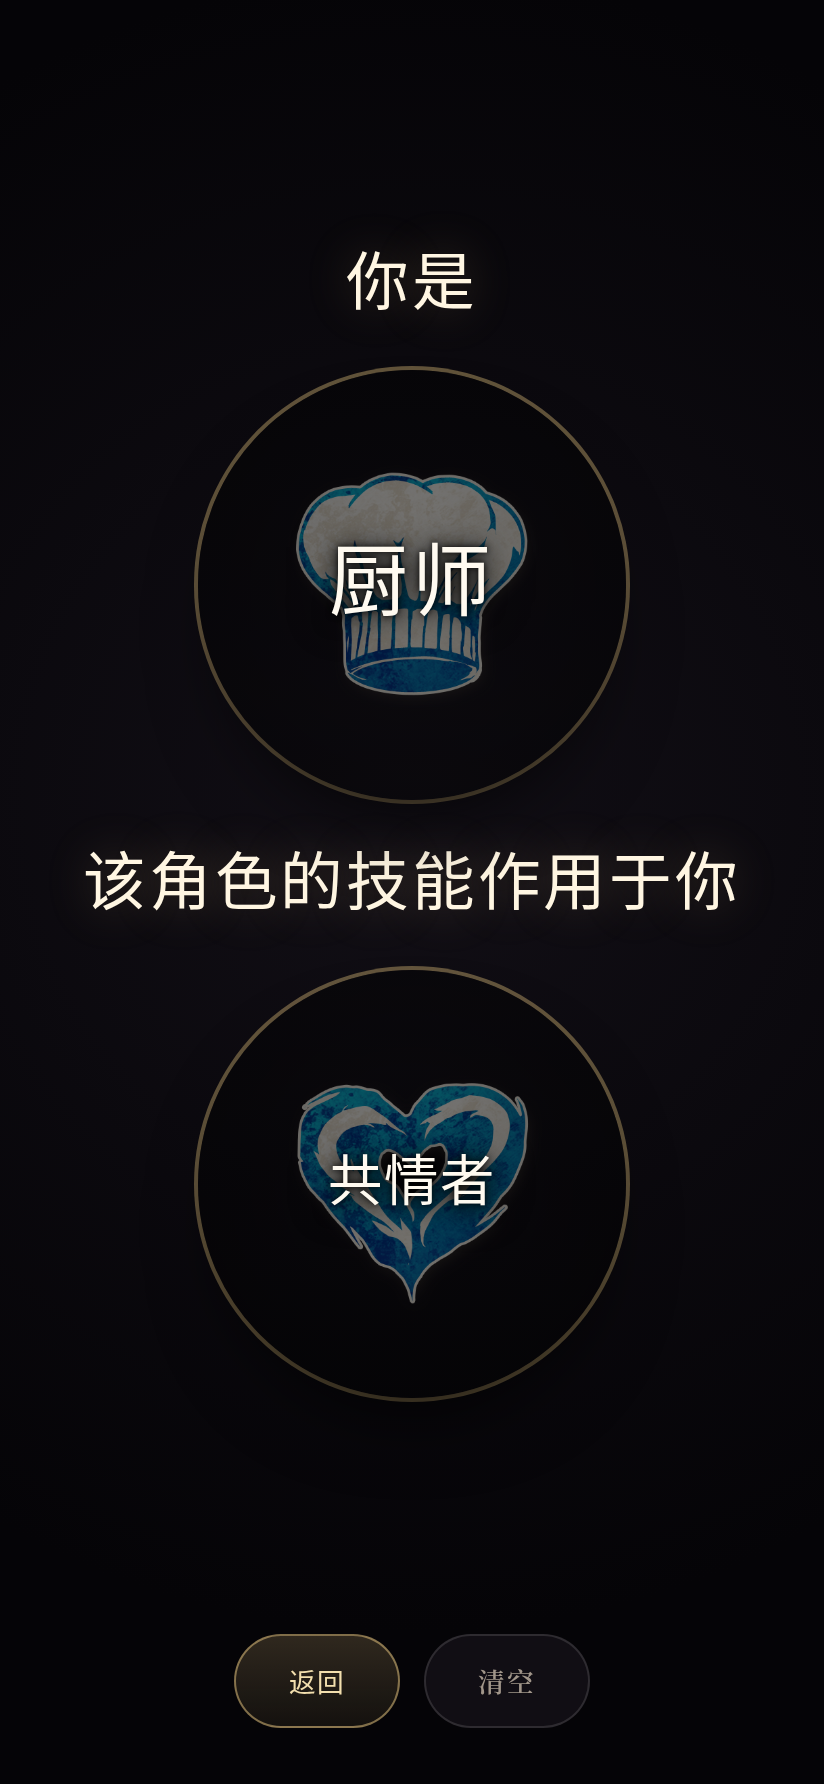
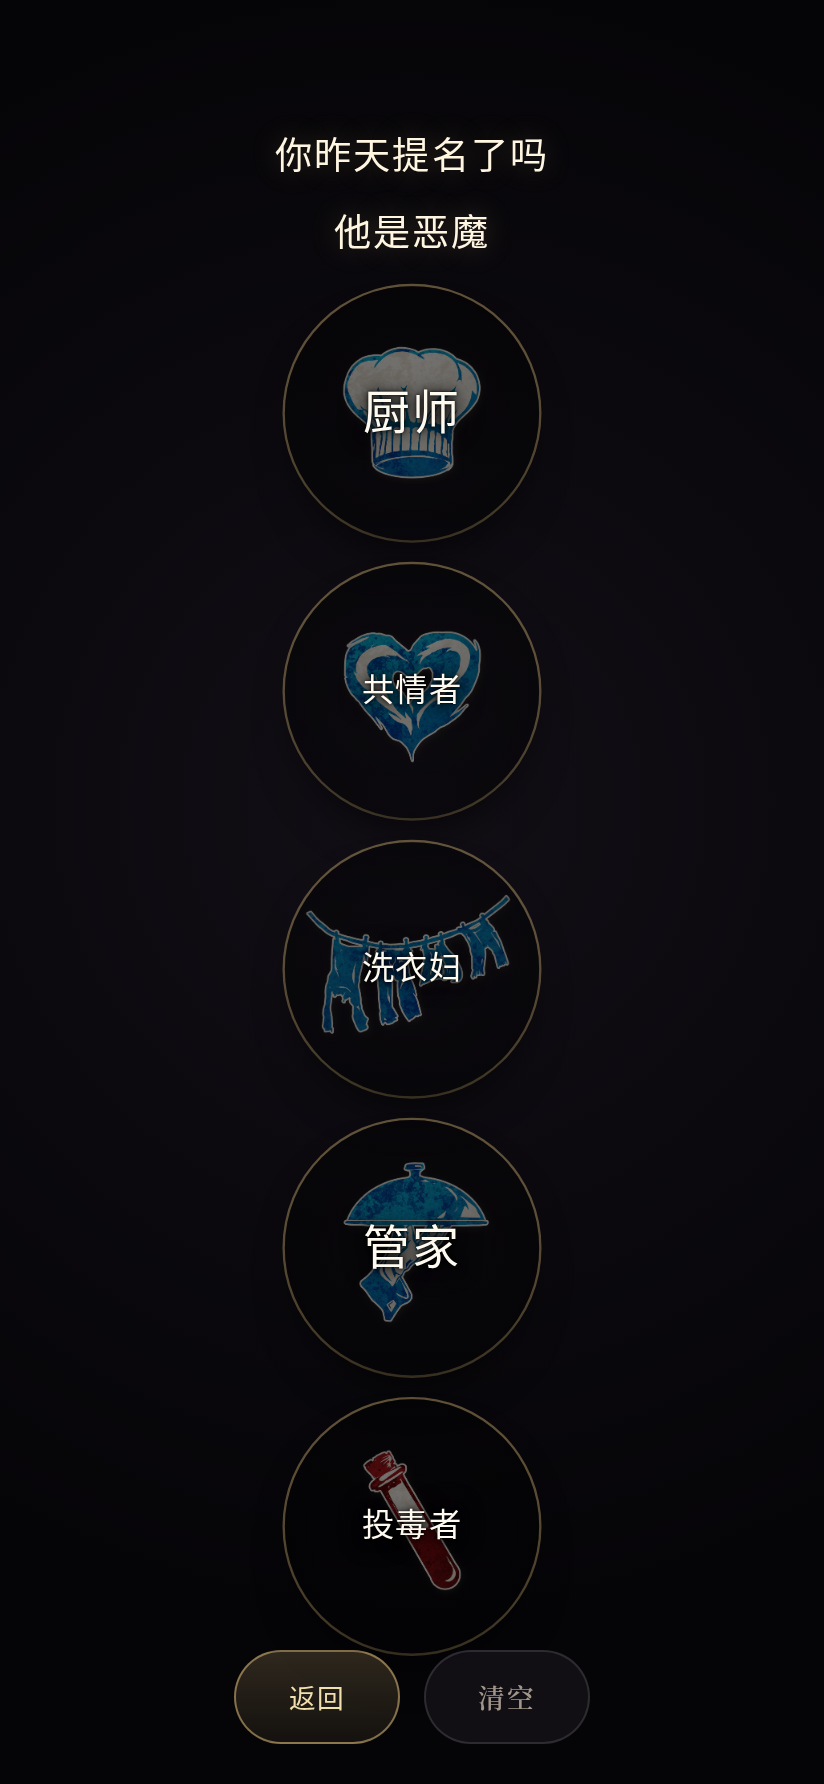
feat(xrh): 展示内容过多时整体等比缩小；角色面板选完不关闭、底部返回；不再自动弹起搜索框

diff --git a/public/js/xrh.js b/public/js/xrh.js
@@ -96,6 +96,7 @@
     $('#btnShow').disabled = empty;
     $('#btnShow').textContent = empty ? '显示' : ('显示（' + queue.length + ' 项）');
     $('#btnClearTop').classList.toggle('on', !empty);
+    updateSheetFoot();
   }
 
   /* ---------- 提示卡 ---------- */
@@ -146,13 +147,18 @@
   }
 
   /* ---------- 角色列表 ---------- */
+  function updateSheetFoot() {
+    var btn = $('#pickDone');
+    if (btn) btn.textContent = queue.length ? ('返回（已记录 ' + queue.length + ' 项）') : '返回';
+  }
+
   function openSheet() {
     $('#search').value = '';
     renderRoles('');
+    updateSheetFoot();
     $('#sheet').hidden = false;
     $('#back').hidden = false;
     setClose(false);
-    setTimeout(function () { try { $('#search').focus(); } catch (e) { /* noop */ } }, 60);
   }
 
   function closeSheet() {
@@ -173,12 +179,13 @@
       if (kw && r.name.indexOf(kw) < 0 && r.id.indexOf(kw) < 0) return;
       var b = document.createElement('button');
       b.type = 'button';
-      b.className = 'x-role team-' + r.team;
+      var used = queue.some(function (q) { return q.type === 'role' && q.role.id === r.id; });
+      b.className = 'x-role team-' + r.team + (used ? ' used' : '');
       b.innerHTML = (r.image ? '<img src="' + r.image + '" alt="" loading="lazy">' : '') +
         '<span>' + r.name + '</span><em>' + (TEAM_NAME[r.team] || '') + '</em>';
       b.addEventListener('click', function () {
         addItem({ type: 'role', role: r });
-        closeSheet();
+        renderRoles($('#search').value);      // 不关闭，重新标记已选
       });
       box.appendChild(b);
     });
@@ -220,6 +227,24 @@
     $('#show').hidden = false;
     $('#back').hidden = false;
     setClose(false);
+    fitShow();
+  }
+
+  /* 内容放不下就整体等比缩小（以中心为基准），保证第一行和底部按钮都在屏幕内 */
+  function fitShow() {
+    var box = $('#showList');
+    var host = $('#show');
+    box.style.transform = 'translate(-50%, -50%)';
+    requestAnimationFrame(function () {
+      var availH = host.clientHeight - 130;    // 留出底部按钮
+      var availW = host.clientWidth - 32;
+      var h = box.offsetHeight;
+      var w = box.offsetWidth;
+      if (!h || !w) return;
+      var s = Math.min(1, availH / h, availW / w);
+      s = Math.max(0.32, s);
+      box.style.transform = 'translate(-50%, -50%) scale(' + s.toFixed(3) + ')';
+    });
   }
 
   function closeDisplay() {
@@ -251,7 +276,7 @@
   /* ---------- 事件 ---------- */
   $('#roleBtn').addEventListener('click', openSheet);
   $('#search').addEventListener('input', function (e) { renderRoles(e.target.value); });
-  $('#pickCancel').addEventListener('click', closeSheet);
+  $('#pickDone').addEventListener('click', closeSheet);
   $('#btnShow').addEventListener('click', showDisplay);
   $('#btnClearTop').addEventListener('click', function () { if (queue.length) clearQueue(); });
   $('#btnShowBack').addEventListener('click', function (e) { e.stopPropagation(); closeDisplay(); });

diff --git a/public/css/xrh.css b/public/css/xrh.css
@@ -397,3 +397,46 @@ body {
 /* 展示页竖排：角色 token 单独一行、居中 */
 .x-showlist.standalone { gap: 20px; }
 .x-showlist .x-token { margin: 0 auto; }
+
+/* 展示页自动缩放：内容超出时整体缩小，避免顶部被裁掉 */
+.x-show { overflow: hidden; }
+.x-showlist { transform-origin: center center; transition: transform 0.18s ease; min-height: 0; }
+.x-showlist { flex: 1 1 auto; }
+.x-show-actions { flex: none; }
+.x-sheet-head { padding-bottom: 6px; }
+.x-sheet-head input { width: 100%; }
+.x-sheet-foot .x-btn { font-weight: 700; }
+/* 已经记录过的角色给个标记 */
+.x-role.used { border-color: rgba(217, 185, 120, 0.6); background: rgba(52, 40, 26, 0.85); }
+.x-role.used::after { content: "✓"; color: var(--gold); font-size: 13px; margin-left: auto; }
+
+/* 展示页的元素不允许被 flex 压扁，超出交给整体缩放处理 */
+.x-showlist > * { flex: 0 0 auto; }
+
+/* 展示页最终布局：内容绝对居中，整体缩放；按钮固定在底部 */
+.x-show { display: block; overflow: hidden; }
+.x-showlist {
+  position: absolute;
+  left: 50%;
+  top: 50%;
+  transform: translate(-50%, -50%);
+  width: calc(100% - 32px);
+  display: flex;
+  flex-direction: column;
+  align-items: center;
+  justify-content: center;
+  gap: 20px;
+  transform-origin: center center;
+  transition: transform 0.16s ease;
+}
+.x-showlist > * { flex: 0 0 auto; }
+.x-show-actions {
+  position: absolute;
+  left: 0;
+  right: 0;
+  bottom: calc(20px + env(safe-area-inset-bottom));
+  display: flex;
+  justify-content: center;
+  gap: 12px;
+  z-index: 5;
+}

diff --git a/public/xrh.html b/public/xrh.html
@@ -38,10 +38,12 @@
 <!-- 角色列表 -->
 <section class="x-sheet" id="sheet" hidden>
   <div class="x-sheet-head">
-    <input id="search" type="search" placeholder="搜索角色…" autocomplete="off">
-    <button id="pickCancel" type="button">关闭</button>
+    <input id="search" type="search" placeholder="点这里搜索角色…" autocomplete="off">
   </div>
   <div class="x-roles" id="roles"></div>
+  <div class="x-sheet-foot">
+    <button class="x-btn" id="pickDone" type="button">返回</button>
+  </div>
 </section>
 
 <!-- 展示 -->
